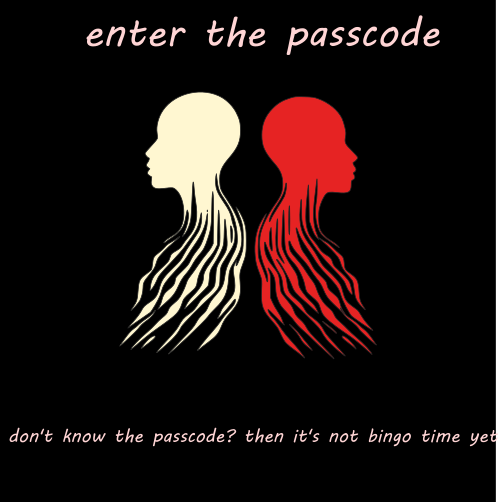
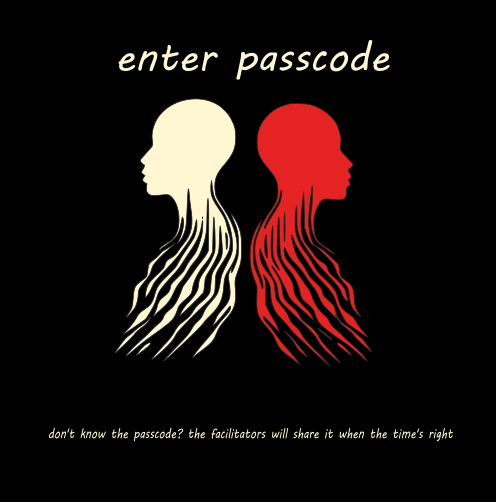
finals

diff --git a/public/index.html b/public/index.html
@@ -17,18 +17,24 @@
         </div>
     </nav>
 
+    <div id="intro-container" class="intro-container">
+        <h2 style="font-weight: bold; color: #f1563b;">Welcome to the Love & Fear Data Collection session</h2><br>
+        <p style="font-size: larger;">Today, we'll reflect on how love and fear shape our relationships, exploring their impact on feelings of safety and security. This session is designed to help you identify and understand personal behaviors that may have caused harm, encouraging self-awareness and growth. Let's embark on this journey of introspection together, with the goal of fostering healthier, more loving connections.</p>
+        <button id="proceed-button" class="proceed-button">Proceed</button>
+    </div>
+
     <ul class="nav nav-tabs">
         <li class="nav-item">
             <a class="nav-link" href="perpScreening.html">Perp Screening</a>
         </li>
         <li class="nav-item">
-            <a class="nav-link active" href="index.html">Questionnaire</a>
+            <a class="nav-link active" href="index.html">Data Collection</a>
         </li>
         <li class="nav-item">
-            <a class="nav-link" href="networkingBingo.html">Networking Bingo</a>
+            <a class="nav-link" href="networkingBingo.html">Community Action Planning</a>
         </li>
     </ul>
-
+    
     <!-- QUESTIONNAIRE -->
     <!-- <div class="tab-pane fade show active" id="questionnaire-tab"> -->
         <div class="wrapper">
@@ -130,7 +136,8 @@
                             </div>
                         </div>
                 
-                        <input type="submit" value="done" id="submit-button">
+                        <div id="popup-submit"><input type="submit" value="done" id="submit-button"></div> 
+                        <p style="font-weight: bold; color: #f1563b; margin-top: 20px;">As you reflect on your responses, consider how the dynamics of love influence not just your personal feelings but also your behavior and decisions in your daily life.</p>
                     </form>
                 </div>
         </div>
@@ -260,7 +267,9 @@
                                     <input type="text"  placeholder="Please specify">
                                 </div>    
                         </div>
-                        <input type="submit" value="done" id="submit-button">
+                        <div id="popup-submit"><input type="submit" value="done" id="submit-button"></div> 
+                        <p style="font-weight: bold; color: #f1563b; margin-top: 20px;">As you reflect on your responses, consider how the dynamics of love influence not just your personal feelings but also your behavior and decisions in your daily life.</p>
+
                     </form>             
                 </div>              
         </div>
@@ -305,7 +314,8 @@
                             <label>🤔 Other: <input type="text" id = "e-3q3" name="answer-e3q3-other"></label>
                         </div>
             
-                        <input type="submit" value="done" id="submit-button">
+                        <div id="popup-submit"><input type="submit" value="done" id="submit-button"></div> 
+                        <p style="font-weight: bold; color: #f1563b; margin-top: 20px;"> After completing this section, take a moment to think about how fear manifests in your life and how it may be influencing your behavior and decision-making processes</p>
                     </form>
                 </div>
         </div>
@@ -357,7 +367,9 @@
                             <label>🤔 Other: <input type="text" id = "e-4q4" name="answer-e4q4-other"></label>
                         </div>
             
-                        <input type="submit" value="done" id="submit-button">
+                        <div id="popup-submit"><input type="submit" value="done" id="submit-button"></div> 
+                        <p style="font-weight: bold; color: #f1563b; margin-top: 20px;"> After completing this section, take a moment to think about how fear manifests in your life and how it may be influencing your behavior and decision-making processes</p>
+
                     </form>
                 </div>
         </div>
@@ -400,7 +412,8 @@
                             <label>🤔 Other: <input type="text" id = "e-3q5" name="answer-e3q5-other"></label>
                         </div>
             
-                        <input type="submit" value="done" id="submit-button">
+                        <div id="popup-submit"><input type="submit" value="done" id="submit-button"></div> 
+                        <p style="font-weight: bold; color: #f1563b; margin-top: 20px;">Reflect on how your perception of safety shapes your behavior and interactions with others, and consider any steps you might take to enhance your sense of security in different environments.</p>
                     </form>
                 </div>
         </div>
@@ -444,7 +457,8 @@
                             <label>🤔 Other: <input type="text" id = "e-3q6" name="answer-e3q6-other"></label>
                         </div>
             
-                        <input type="submit" value="done" id="submit-button">
+                        <div id="popup-submit"><input type="submit" value="done" id="submit-button"></div> 
+                        <p style="font-weight: bold; color: #f1563b; margin-top: 20px;">Reflect on how your perception of safety shapes your behavior and interactions with others, and consider any steps you might take to enhance your sense of security in different environments.</p>
                     </form>
                 </div>
         </div>
@@ -487,7 +501,8 @@
                             <label>🤔 Other: <input type="text" id = "e-1q7" name="answer-e3q7-other"></label>
                         </div>
             
-                        <input type="submit" value="done" id="submit-button">
+                        <div id="popup-submit"><input type="submit" value="done" id="submit-button"></div> 
+                        <p style="font-weight: bold; color: #f1563b; margin-top: 20px;">As you conclude this section, think about how your sense of security or insecurity influences your actions and consider ways to strengthen your security in areas that may need attention.</p>
                     </form>
                 </div>
         </div>
@@ -530,7 +545,8 @@
                             <label>🤔 Other: <input type="text" id = "e-3q8" name="answer-e3q8-other"></label>
                         </div>
             
-                        <input type="submit" value="done" id="submit-button">
+                       <div id="popup-submit"><div id="popup-submit"><input type="submit" value="done" id="submit-button"></div> </div> 
+                       <p style="font-weight: bold; color: #f1563b; margin-top: 20px;">As you conclude this section, think about how your sense of security or insecurity influences your actions and consider ways to strengthen your security in areas that may need attention.</p>
                     </form>
                 </div>
         </div>        
@@ -558,7 +574,7 @@
         <div class="modal-content" style="background-color:black; ">
             <span class="close-modal">&times;</span>
             <img src="network-popup.png" alt="Enter Code Prompt" style="width:100%;">
-            <input type="text" id="accessCode" placeholder="1234 is the passcode(to be changed before event)" style="margin: auto;">
+            <input type="text" id="accessCode" placeholder="🗝 claim your access..." style="margin: auto;">
             <button id="submitCode" style="background-color: #f1563b; width: 50%; margin: 10px auto;border-radius: 8px; padding: 10px 10px;">enter</button>
             <p id="error-message" style="color:red; display:none;">Incorrect code. Please try again.</p>
         </div>

diff --git a/public/index.js b/public/index.js
@@ -108,23 +108,23 @@ window.onclick = function(event) {
 document.addEventListener('DOMContentLoaded', function() {
     // Target the Networking Bingo link
     const bingoLink = document.querySelector('a[href="networkingBingo.html"]');
-    const modal = document.getElementById('codeModal');
+    const passcodeModal = document.getElementById('codeModal');
     const closeModal = document.querySelector('.close-modal');
     const submitCodeButton = document.getElementById('submitCode');
     const errorMessage = document.getElementById('error-message');
     
     // Example correct code
-    const correctCode = "1234"; // Change this to your desired access code
+    const correctCode = "Safeinlove"; // Change this to your desired access code
     
     // Show modal on Networking Bingo link click
     bingoLink.addEventListener('click', function(event) {
         event.preventDefault(); // Prevent the link from navigating
-        modal.style.display = 'block'; // Show the modal
+        passcodeModal.style.display = 'block'; // Show the modal
     });
     
     // Close modal when the user clicks on the 'X'
     closeModal.addEventListener('click', function() {
-        modal.style.display = 'none';
+        passcodeModal.style.display = 'none';
     });
     
     // Handle code submission
@@ -140,16 +140,16 @@ document.addEventListener('DOMContentLoaded', function() {
     
     // Close modal if user clicks outside of it
     window.onclick = function(event) {
-        if (event.target === modal) {
-            modal.style.display = 'none';
+        if (event.target === passcodeModal) {
+            passcodeModal.style.display = 'none';
         }
     };
 });
 
-// Show popup when responses are filled
+// SHOW BINGO POPUP
 document.addEventListener('DOMContentLoaded', function () {
     const responses = document.querySelectorAll('.bingo-cell input[type="text"]');
-    const popup = new bootstrap.Modal(document.getElementById('popup'));
+    const bingoPopup = new bootstrap.Modal(document.getElementById('popup'));
 
     responses.forEach(response => {
         response.addEventListener('input', () => {
@@ -157,7 +157,7 @@ document.addEventListener('DOMContentLoaded', function () {
             const nonEmptyResponses = Array.from(responses).filter(input => input.value.trim() !== '').length;
 
             if (nonEmptyResponses >= 7) {
-                popup.show();
+                bingoPopup.show();
             }
         });
     });
@@ -169,4 +169,16 @@ document.querySelectorAll('form').forEach(form => {
         const popupId = this.closest('.popup').id;
         handleSubmit(popupId, event);
     });
+});
+
+
+
+
+
+document.getElementById("proceed-button").addEventListener("click", function() {
+    // Hide the intro container
+    document.getElementById("intro-container").style.display = "none";
+    
+    // Show the questionnaire container
+    document.getElementById("questionnaire-container").style.display = "block";
 });

diff --git a/public/indexStyle.css b/public/indexStyle.css
@@ -21,14 +21,6 @@ body, html {
     transform: translateX(-50%); /* Adjust for exact center */
 }
 
-#submit-button
-{
-    background-color: #f1563b;
-    color: white;
-    border: none;
-    border-radius: 10%;
-    padding: 10px;
-}
 .nav-link
 {
     color: black;
@@ -36,6 +28,30 @@ body, html {
 .nav-link:hover
 {
     color: white;
+}
+
+.intro-container {
+    text-align: center;
+    padding: 150px;
+    margin: 100px auto;
+    max-width: 80%;
+    background-color: #f5f5f5;
+    border-radius: 10px;
+    
+}
+
+.proceed-button {
+    background-color: #f1563b;
+    color: white;
+    border: none;
+    border-radius: 5px;
+    padding: 10px 20px;
+    cursor: pointer;
+    font-size: 16px;
+}
+
+.proceed-button:hover {
+    background-color: #e0452a;
 }
 #questionnaire-body {
     margin: 0;
@@ -135,11 +151,23 @@ body, html {
     max-width: 900px;
     border-radius: 10px;
     position: relative;
+    display: flex;
+    flex-direction: column; /* Ensure the button stacks vertically */
+    align-items: center; /* Center the button horizontally */
+    justify-content: center; /* Center the button vertically */
 }
 
 #submit-button {
-    float: right; /* Or use one of the other methods above */
-    margin-top: 10px; /* Optional: adds some space above the button */
+   
+        margin-top: 20px; /* Optional: adds some space above the button */
+        background-color: #f1563b;
+        color: white;
+        border: none;
+        border-radius: 16px;
+        padding: 10px;
+        cursor: pointer; /* Optional: Changes the cursor to a pointer */
+        width: 20%;
+    
 }
 
 .close-btn {
@@ -172,7 +200,11 @@ body, html {
     margin: auto;
     position: relative; /* Allow buttons to be positioned absolutely */
 }
-
+#popup-submit
+{
+    text-align: center;
+    
+}
 button {
     background: none;
     border: none;
@@ -254,6 +286,10 @@ button {
     grid-column: 2;
     grid-row: 4;
     transform: translateY(-20px);
+}
+.popup-content input[type="text"]
+{
+    width: 100%;
 }
 
 @media (max-width: 768px) {
@@ -493,7 +529,10 @@ button {
         margin: 50px auto; /* Center container */
         box-sizing: border-box; /* Include padding and border in width/height calculations */
     }
-
+    .popup-content
+    {
+        padding: 50px;
+    }
     #button-1 {
         width: 40px; /* Reduced size */
         height: 40px; /* Reduced size */
@@ -550,6 +589,10 @@ button {
         right: 10px; /* Adjusted position */
         width: 70px; /* Reduced size */
         height: 70px; /* Reduced size */
+    }
+    #submit-button{
+        width: 50%;
+        margin: 20px auto;
     }
 }
 
@@ -738,3 +781,11 @@ input[type=text] {
 .submitCode:hover {
     background-color: #45a049;
 }
+
+
+
+
+
+
+
+

diff --git a/public/perpScreening.html b/public/perpScreening.html
@@ -22,12 +22,12 @@
             <a class="nav-link active" href="perpScreening.html">Perp Screening</a>
         </li>
         <li class="nav-item">
-            <a class="nav-link " href="index.html">Questionnaire</a>
+            <a class="nav-link" href="index.html">Data Collection</a>
         </li>
         <li class="nav-item">
-            <a class="nav-link " href="networkingBingo.html">Networking Bingo</a>
+            <a class="nav-link " href="networkingBingo.html">Community Action Planning</a>
         </li>
-    </ul>
+    </ul> 
     <div class="container">
         <h1 id="main-title">Holistic Abuse Awareness & Perpetrator Identification Assessment</h1>
         <form id="assessmentForm" >

diff --git a/public/networkingBingo.html b/public/networkingBingo.html
@@ -22,10 +22,10 @@
             <a class="nav-link" href="perpScreening.html">Perp Screening</a>
         </li>
         <li class="nav-item">
-            <a class="nav-link" href="index.html">Questionnaire</a>
+            <a class="nav-link" href="index.html">Data Collection</a>
         </li>
         <li class="nav-item">
-            <a class="nav-link active" href="networkingBingo.html">Networking Bingo</a>
+            <a class="nav-link active" href="networkingBingo.html">Community Action Planning</a>
         </li>
     </ul>  
 
